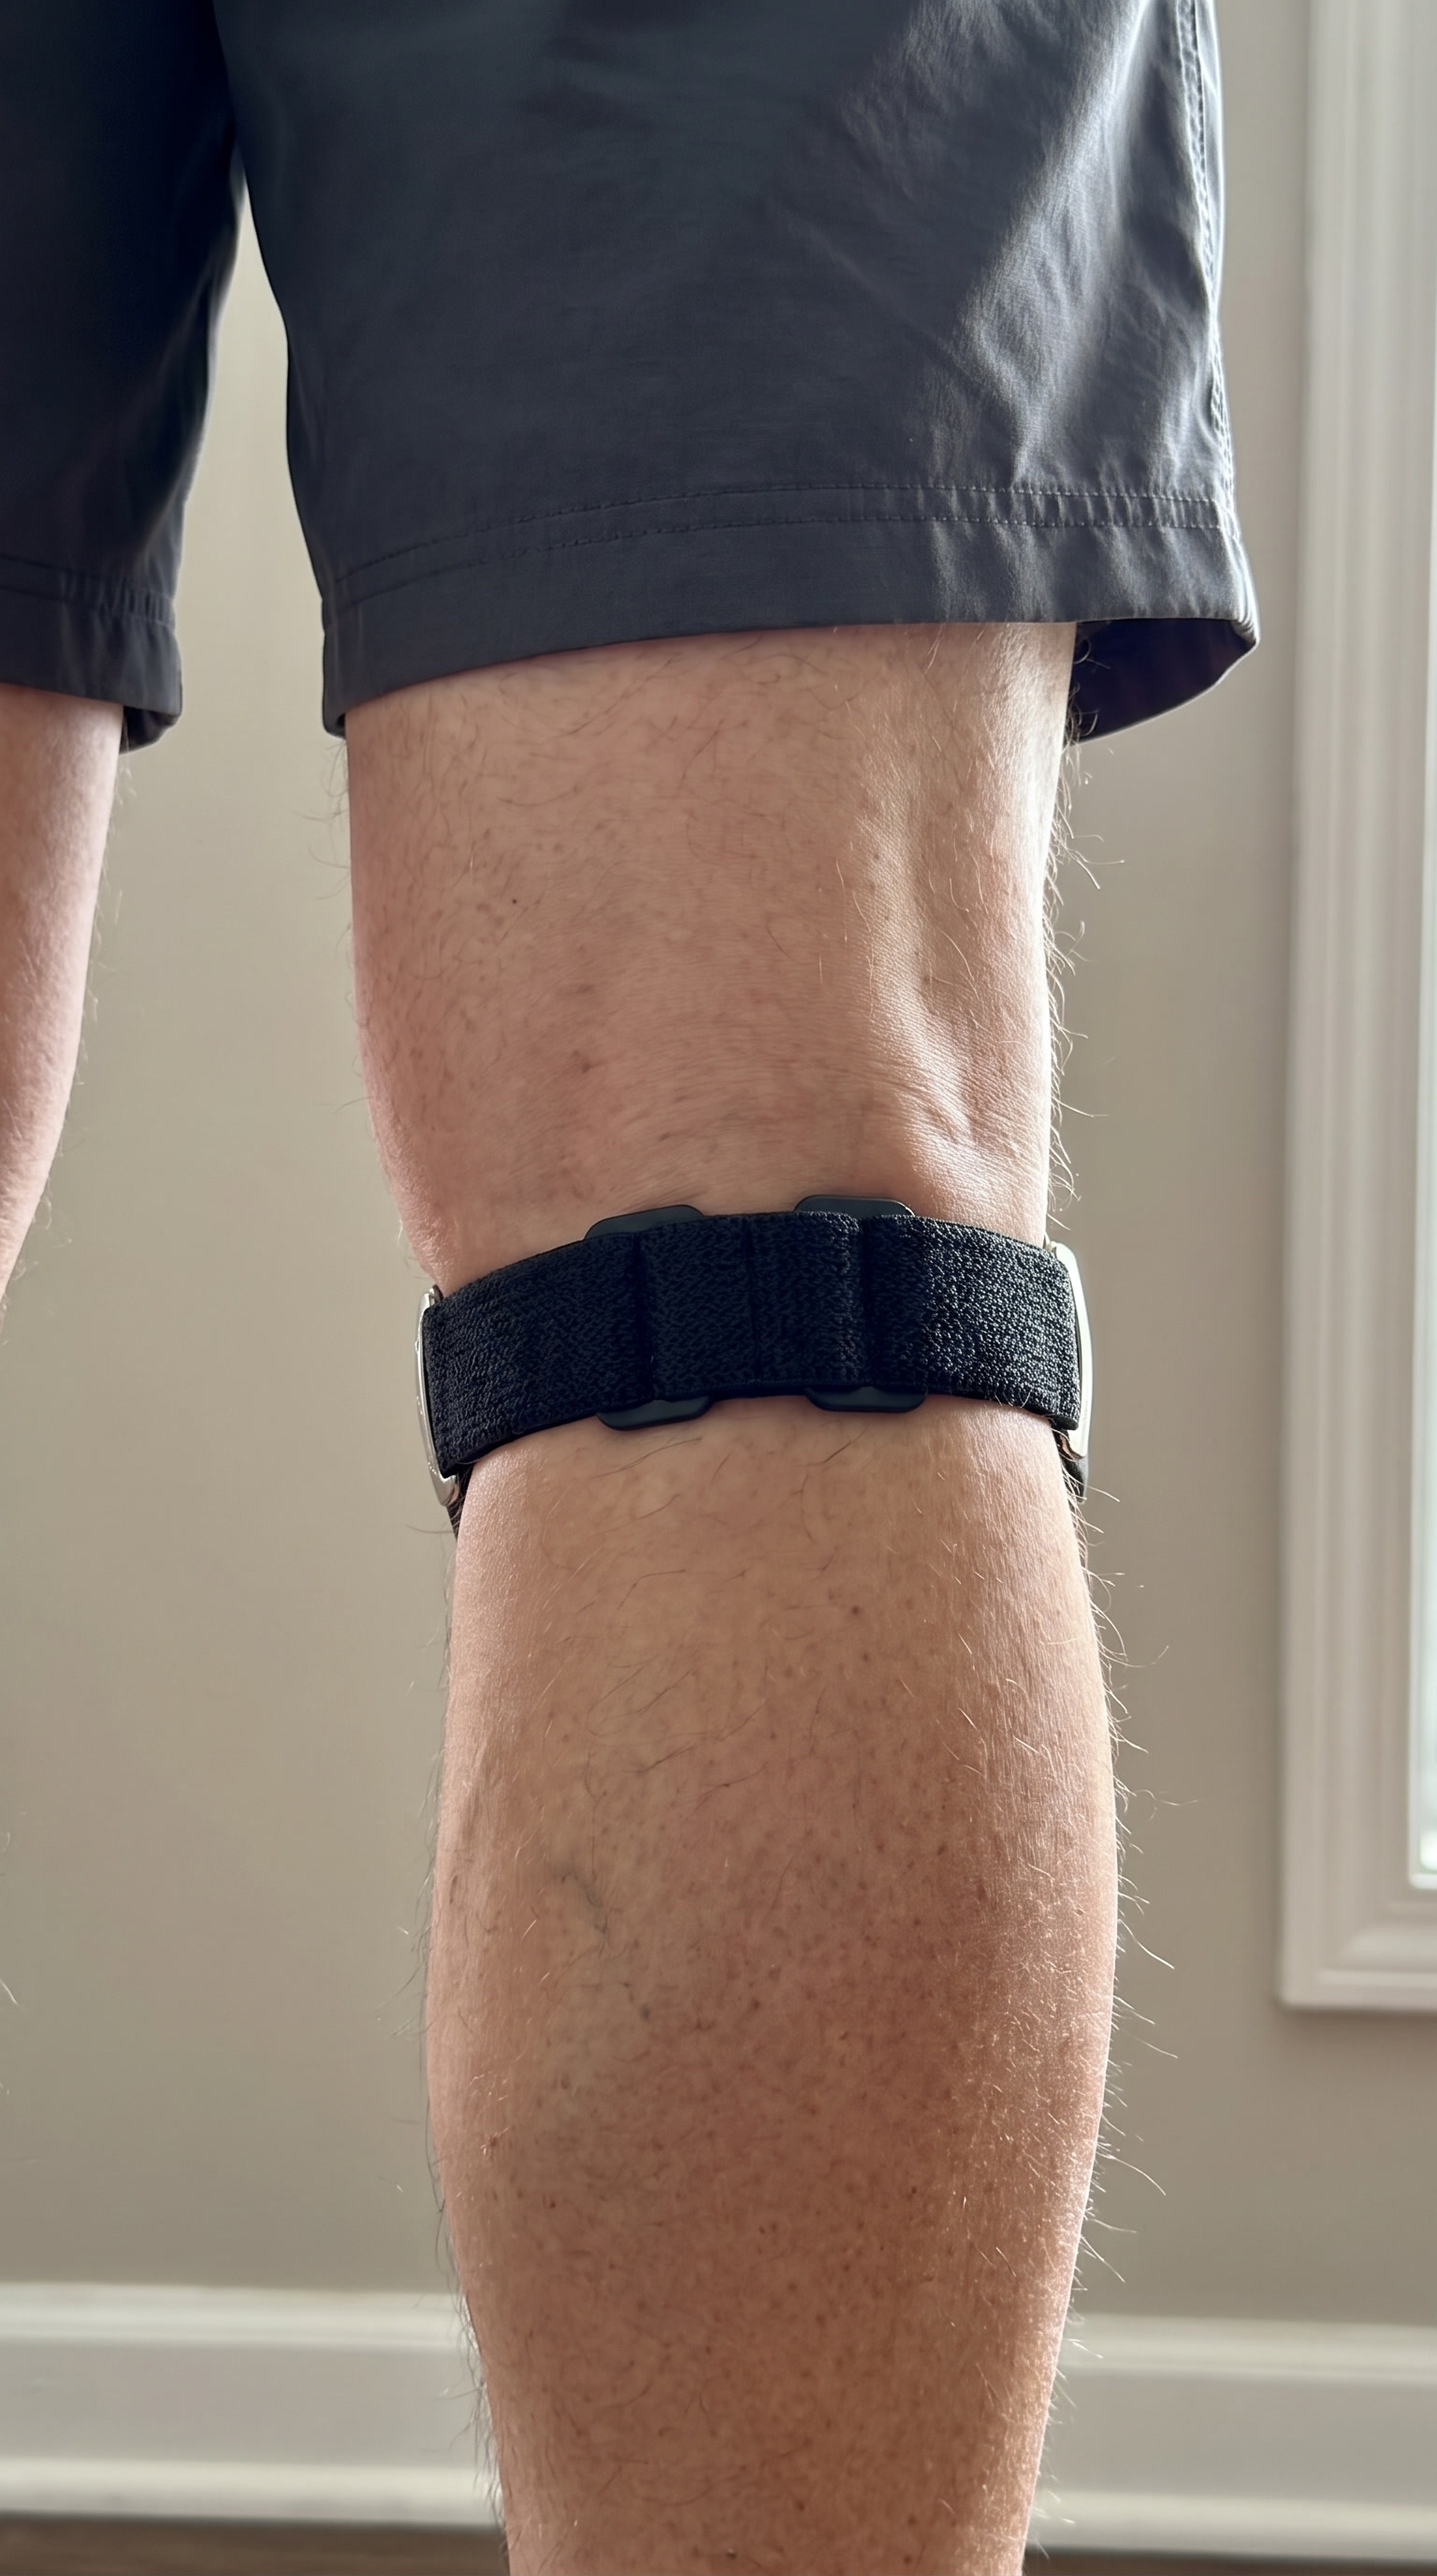
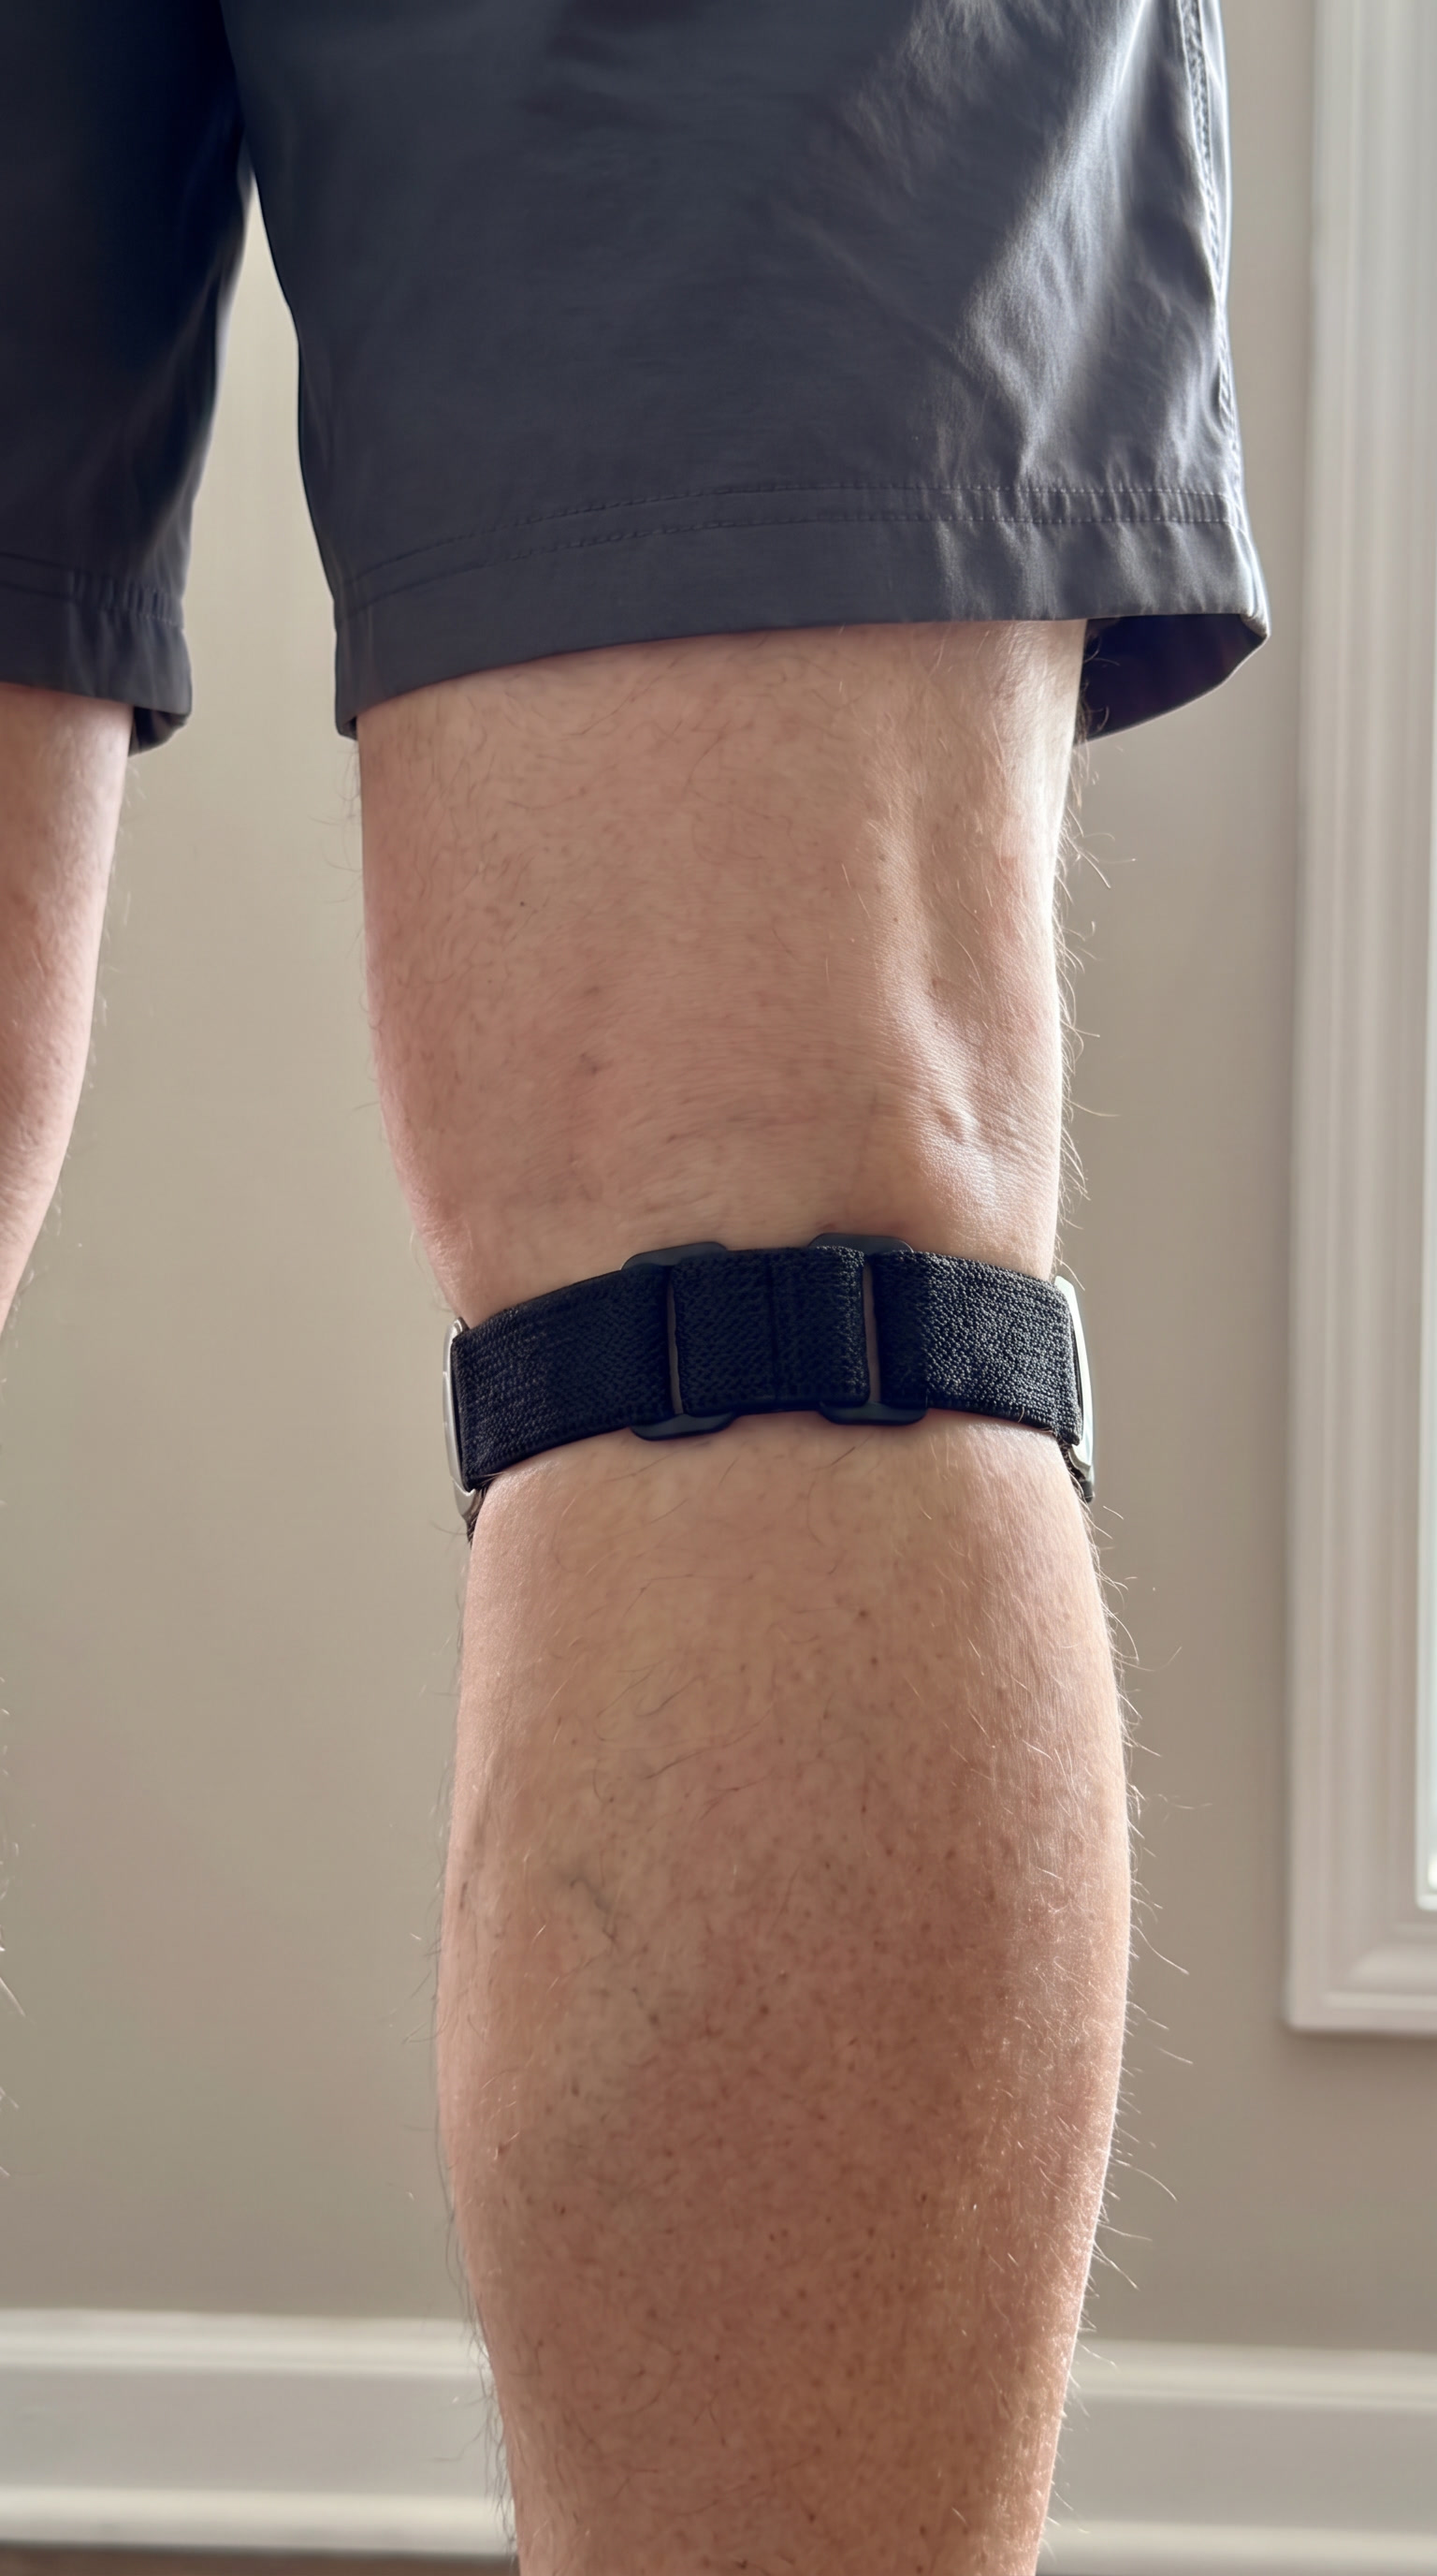
STRYDE sheet V7.49.22: product front re-rolled level; worn rear band narrowed
product_front.jpg -> 81f0fb23 (attempt 3): camera level like front.webp,
passes every --check shape gate. worn_rear.jpg -> 81992d6c, an edit of the
locked a38bc276 with only the band narrowed (0.33 -> ~0.27 of the leg), on
user instruction. SIZE_LOCK note: back.webp confirms the band is about half
the shell's height; --check under-reads knit bands.

Claude-Session: https://claude.ai/code/session_01DLW4YvPAi5KqofgHdwiNiF

diff --git a/products/stryde_product_sheet.py b/products/stryde_product_sheet.py
@@ -1,6 +1,6 @@
 #!/usr/bin/env python3
 """
-STRYDE PRECISION STRAP — PRODUCT SHEET, SINGLE FILE.  V7.49.21
+STRYDE PRECISION STRAP — PRODUCT SHEET, SINGLE FILE.  V7.49.22
 
 One artefact for §18 step 2. Attach this file alone when absorbing the
 product; it carries everything that step needs.
@@ -62,7 +62,7 @@ WHAT THE CHECKER CANNOT SEE, and these stay human checks:
 It measures proportion only. A frame that passes here can still be wrong.
 """
 
-VERSION = "7.49.21"
+VERSION = "7.49.22"
 
 # --------------------------------------------------------------- slots
 
@@ -318,9 +318,11 @@ SIZE_LOCK = {
     "shell_height_cm":  5.0,    # peak tips to the lowest point of the bottom edge
     "band_width_cm":    2.5,    # band height, edge to edge
     "shell_aspect":     (2.3, 2.6),   # width / height, measured straight-on
-    "band_over_shell_h": (0.45, 0.60),  # edge-to-edge by eye; the --check distance
-                                        # transform reads the same band as 0.351 (front.webp) --
-                                        # different method, so RATIOS keeps its own gates
+    "band_over_shell_h": (0.45, 0.60),  # edge-to-edge by eye, confirmed on back.webp V7.49.22
+                                        # (band ~175 px vs shell ~310 px head-on). The --check
+                                        # distance transform reads the same band as 0.351 on
+                                        # front.webp: its dark threshold drops the knit's light
+                                        # fibres, so it UNDER-reads bands. RATIOS keeps its own gates.
     "notch_rise_over_w": (0.15, 0.21),  # front.webp 0.18
     "peak_span_over_w":  (0.55, 0.66),  # front.webp 0.60
     "worn_band_over_leg": (0.20, 0.28), # band height / leg width at the calf, from behind
@@ -529,10 +531,11 @@ PRODUCT_SET_REFS = {
                              "edge hiding the notch and peaks). Superseded: 972e16d9 (flat palm, not a real "
                              "hold), 930e3245 (grip not on the pad), 86093b25 (flat rectangular shell)"),
                  "flags": "one fingertip shows through the notch from behind the shell"},
-    "front_view": {"file": "stryde_refs/product_front.jpg", "job_id": "eb1e16e1-066c-4f6e-8bf0-311b962799ed",
-                   "attempt": "1 of 1",
-                   "flags": ("V7.49.21 --check: FAIL rise 0.272, peak span 0.442, peaks 12% unequal; band "
-                             "reads thick -- re-roll before locking; use front.webp as the front meanwhile")},
+    "front_view": {"file": "stryde_refs/product_front.jpg", "job_id": "81f0fb23-9472-414d-bdc8-79926db9b2af",
+                   "attempt": ("3 of 3 (V7.49.22) -- eb1e16e1 failed --check (rise 0.272, span 0.442, peaks 12% "
+                               "unequal); 314cab43 camera above the product (ring top visible); 3 = re-render of "
+                               "front.webp at level camera height. --check: all shape gates pass, peaks 2%"),
+                   "flags": "band reads 0.387 on --check (front.webp 0.351): ~10% thicker, inside SIZE_LOCK tolerance"},
     "back_view":  {"file": "stryde_refs/product_back.jpg", "job_id": "7921dfdf-9bda-4599-a861-9234a30b961f",
                    "attempt": "1 of 1", "flags": ""},
     "side_view":  {"file": "stryde_refs/product_side.jpg", "job_id": "a18b4a42-a306-41d8-8d09-2306c85393fb",
@@ -690,7 +693,8 @@ REVEAL_STATUS = {
 # object reference). The frames below stay attached until the new ones are
 # accepted by the user; then swap file/job ids here and log it.
 PLACEMENT_REFERENCES_STATUS = ("LOCKED V7.49.17 by the user -- front (f5263ed7), bent (8a8979ac, raised) and "
-                               "rear (a38bc276). Layer 1 for placement. Replaced only on a user instruction.")
+                               "rear (81992d6c, band narrowed V7.49.22 on user instruction; was a38bc276). "
+                               "Layer 1 for placement. Replaced only on a user instruction.")
 PLACEMENT_REFERENCES = {
     "front": {
         "file": "stryde_refs/worn_front.jpg",
@@ -722,14 +726,17 @@ PLACEMENT_REFERENCES = {
     },
     "rear": {
         "file": "stryde_refs/worn_rear.jpg",
-        "job_id": "a38bc276-9e83-48b4-86ae-8e5fd8192fcc",
+        "job_id": "81992d6c-dbf2-406d-95eb-cf5a941d5ed9",
+        "edit_of": ("a38bc276 (locked V7.49.17) -- V7.49.22 user-ordered band fix: band/leg 0.33 -> "
+                    "about 0.27, everything else unchanged"),
         "higgsfield_media": "use the job_id as the medias value",
         "model_passed": "nano_banana_pro", "model_logged": "nano_banana_2",
         "attempt": "1 of 1",
         "reads": ("right knee from behind, standing; the band crosses BELOW the hollow, across the top of the "
                   "calf, the knee's bulge bare above; two black keeper loops side by side at the centre rear "
                   "exactly as back.webp; straight band edges; a chrome slide as a bright bar at each side; "
-                  "no shell, wordmark or fastening at the rear; band about a third of the leg's width."),
+                  "no shell, wordmark or fastening at the rear; band about a quarter of the leg's width "
+                  "(0.27, V7.49.22)."),
     },
 }
 
@@ -1375,7 +1382,7 @@ def _verify_v7490():
     if not PLACEMENT_REFERENCES_STATUS.startswith("LOCKED"):
         fails.append("worn placement references are not locked")
     if [PLACEMENT_REFERENCES[k]["job_id"][:8] for k in ("front", "bent", "rear")] != \
-            ["f5263ed7", "8a8979ac", "a38bc276"]:
+            ["f5263ed7", "8a8979ac", "81992d6c"]:
         fails.append("a locked worn reference was swapped without a user instruction")
     if len(DEMONSTRATION_TABLE) != 7:
         fails.append("DEMONSTRATION_TABLE must carry the seven §30B rows")
@@ -1702,7 +1709,7 @@ The global Standards are product-agnostic from V7.49.4. Everything below used to
 | Worn | shell spans the leg's whole front width, about as tall as the kneecap; band about a quarter of the calf's width (`SIZE_WORN`) |
 | Held | shell five to six thumb-widths across, as tall as the thumb is long; band a little wider than the thumb (`SIZE_HELD`) |
 
-A frame more than ~20% off its anchor is REGENERATE Q2. Measured drift in the current set: `worn_rear.jpg` band reads ~0.33 of the leg (target 0.20–0.28, a little wide); `product_front.jpg` band reads ~0.7 of the shell's height (target 0.45–0.60, a little thick). Both are flagged, not re-rendered. The `--check` geometry gates stay in their own units (a distance-transform band reading), so `front.webp` passes them; `product_front.jpg` fails three shape gates (rise 0.272, peak span 0.442, peaks 12% unequal) and is due a re-roll before it is locked.
+A frame more than ~20% off its anchor is REGENERATE Q2. Drift found V7.49.21 and fixed V7.49.22: `worn_rear.jpg` band 0.33 of the leg → re-rolled to ~0.27 (edit, everything else unchanged); `product_front.jpg` failed three `--check` shape gates → re-rolled level and now passes them all. The `--check` gates stay in their own units: its band reading under-reads the knit (0.351 on `front.webp` for a band that is about half the shell's height edge to edge, confirmed on `back.webp`).
 
 ---
 
